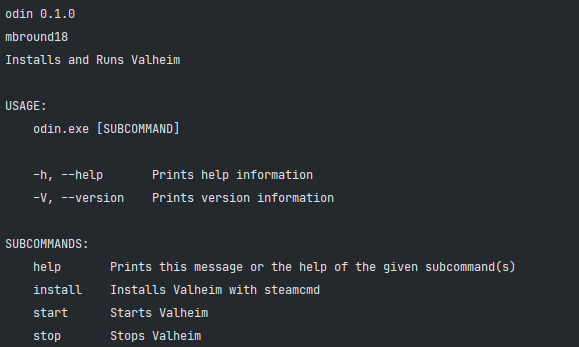
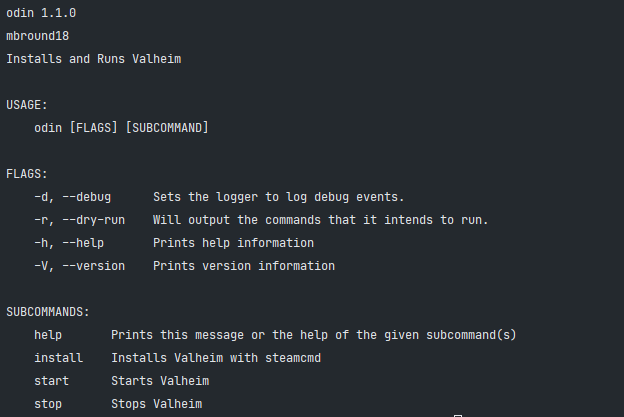
16 ability to change steam userid (#18)
* #16 - Added PUID and PGID environment variables

* Disabled auto labeler for now

* Fixed timezone issue and updated readme

* Readme changes and version fix

* Removed Labeler

diff --git a/src/main.rs b/src/main.rs
@@ -10,6 +10,7 @@ use log::{SetLoggerError, LevelFilter, debug};
 use crate::logger::OdinLogger;
 use crate::executable::handle_exit_status;
 
+const VERSION: &'static str = env!("CARGO_PKG_VERSION");
 static LOGGER: OdinLogger = OdinLogger;
 static GAME_ID: i64 = 896660;
 
@@ -28,7 +29,10 @@ fn setup_logger(debug: bool) -> Result<(), SetLoggerError> {
 fn main() {
     // The YAML file is found relative to the current file, similar to how modules are found
     let yaml = load_yaml!("cli.yaml");
-    let matches = App::from(yaml).get_matches();
+    let app = App::from(yaml)
+        .version(VERSION);
+
+    let matches = app.get_matches();
 
     setup_logger(matches.is_present("debug")).unwrap();
 

diff --git a/README.md b/README.md
@@ -10,12 +10,15 @@
 
 | Variable    | Default                | Required | Description |
 |-------------|------------------------|----------|-------------|
+| PUID        | `1000`                 | FALSE    | Sets the User Id of the steam user. |
+| PGID        | `1000`                 | FALSE    | Sets the Group Id of the steam user. |
 | NAME        | `Valheim Docker`       | TRUE     | The name of your server! Make it fun and unique! |
 | WORLD       | `Dedicated`            | TRUE     | This is used to generate the name of your world. |
 | PORT        | `2456`                 | TRUE     | Sets the port your server will listen on. Take not it will also listen on +2 (ex: 2456, 2457, 2458) |
 | PASSWORD    | `12345`                | TRUE     | Set this to something unique! |
 | TZ          | `America/Los_Angeles`  | FALSE    | Sets what timezone your container is running on. This is used for timestamps and cron jobs. [Click Here for which timezones are valid.](https://en.wikipedia.org/wiki/List_of_tz_database_time_zones) |
 | AUTO_UPDATE | `0`                    | FALSE    | Set to `1` if you want your container to auto update! This means at 1 am it will update, stop, and then restart your server. |
+
 
 ### Docker Compose
 
@@ -61,7 +64,7 @@ cargo install --git https://github.com/mbround18/valheim-docker.git --branch mai
 
 ### Usage
 
-![![Main Menu](https://github.com/mbround18/valheim-docker/blob/main/docs/assets/main-menu.png?raw=true)](./docs/assets/main-menu.png)
+![Main Menu](./docs/assets/main-menu.png)
 
 #### Install Valheim
 
@@ -69,41 +72,53 @@ cargo install --git https://github.com/mbround18/valheim-docker.git --branch mai
 odin install
 ```
 
+![Install Menu](./docs/assets/install-menu.png)
+
 #### Start Valheim
 
 ```sh
 odin start
 ```
 
-![![start menu](https://github.com/mbround18/valheim-docker/blob/main/docs/assets/start-menu.png?raw=true)](./docs/assets/start-menu.png)
+![Start Menu](./docs/assets/start-menu.png)
+
 #### Stop Valheim
 
 ```sh
 odin stop
 ```
 
+![Install Menu](./docs/assets/stop-menu.png)
+
 ## Versions: 
 
 - latest (Stable):
-  - Readme update to include the versions section and environment variables section. 
+  - Readme update to include the versions section and environment variables section.
+  - [#18] Changed to `root` as the default user to allow updated steams User+Group IDs.
+  - [#18] Fixed issue with the timezone not persisting.
+  - To exec into the container you now have to include the `-u|--user` argument to access steam directly. Example `docker-compose exec --user steam valheim bash`
+  - There is now a `dry-run` command argument on `odin` to preview what the command would do. 
+  - You can run with `-d|--debug` to get verbose logging of what `odin` is doing. 
 - 1.1.1 (Stable): 
   - Includes PR [#10] to fix the double world argument. 
 - 1.1.0 (Stable): 
-  - Includes fix for [#3] and [#8].
+  - Includes a fix for [#3] and [#8].
   - Improves the script interface and separation of concerns, files now have a respective code file that supports interactions for cleaner development experience.
   - Docker image is cleaned up to provide a better usage experience. There is now an `AUTO_UPDATE` feature.
   - Has a bug where the script has two entries for the world argument.
 - 1.0.0 (Stable):
-  - It works! It will start your server and stop when you shutdown. 
+  - It works! It will start your server and stop when you shut down. 
   - This supports passing in environment variables or arguments to `odin`
   - Has a bug in which it does not read passed in variables appropriately to Odin. Env variables are not impacted see [#3]. 
 
 [//]: <> (Github Issues below...........)
+[#18]: https://github.com/mbround18/valheim-docker/pull/18
 [#10]: https://github.com/mbround18/valheim-docker/pull/10
 [#8]: https://github.com/mbround18/valheim-docker/issues/8
 [#3]: https://github.com/mbround18/valheim-docker/issues/3 
 
 
 [//]: <> (Links below...................)
-
 [Valheim]: https://www.valheimgame.com/
+
+[//]: <> (Image Base Url: https://github.com/mbround18/valheim-docker/blob/main/docs/assets/name.png?raw=true)
